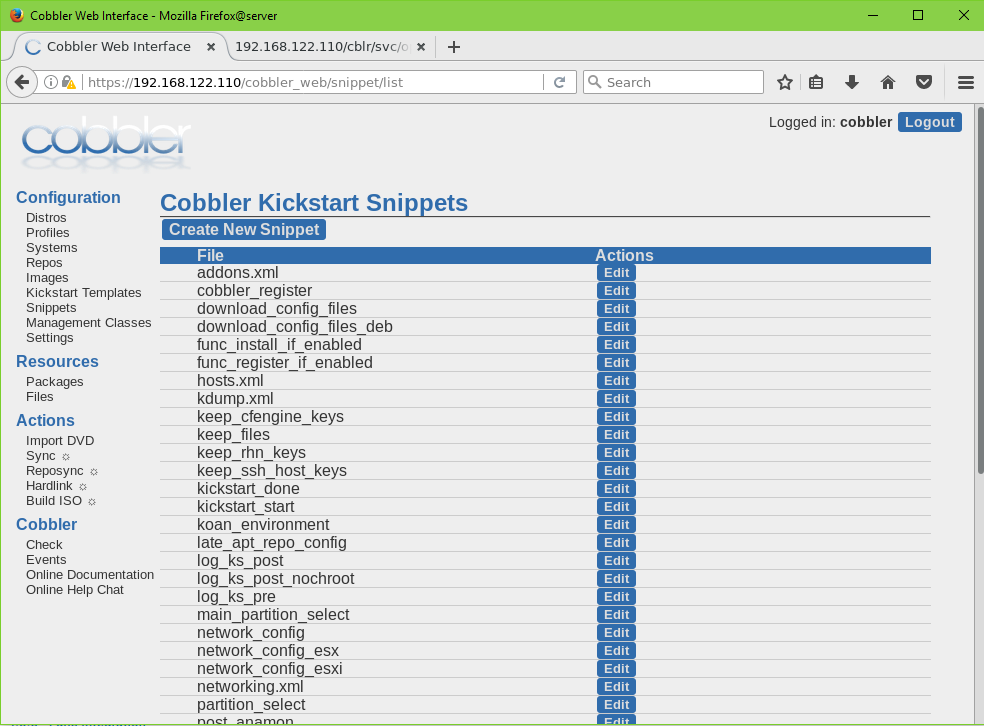
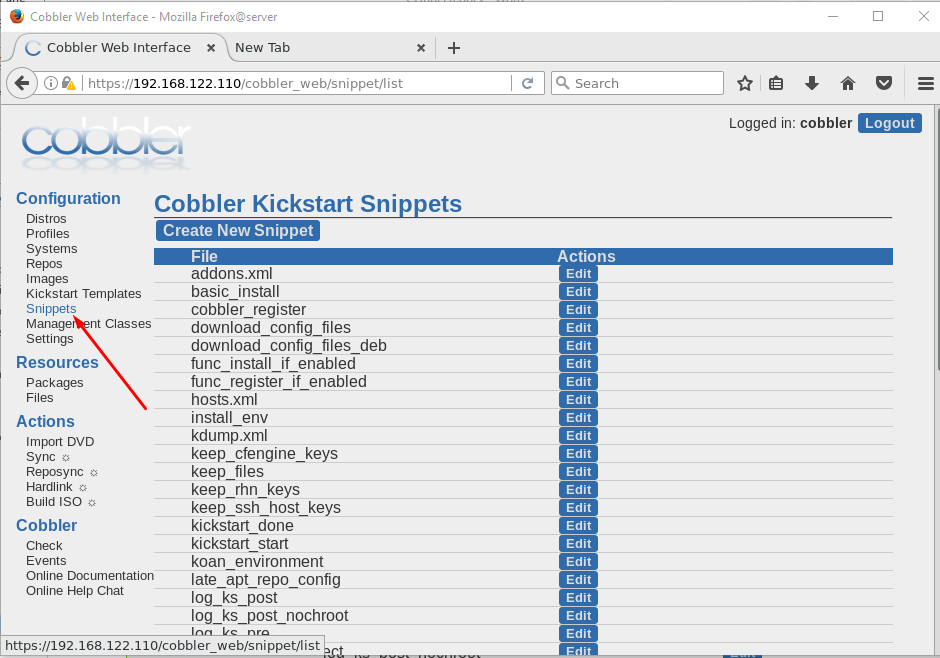
update báo cáo tìm hiểu snippet trong cobbler

Changed region(s): [[0.0, 0.0, 1.0, 1.0], [0.1234, 0.5775, 0.1543, 0.6079]]

diff --git a/docs/3.Cobbler-Su_dung_coban.md b/docs/3.Cobbler-Su_dung_coban.md
@@ -16,6 +16,12 @@
 
 - [1.6.	Snippets](#1.6)
 
+	- [1.6.1. Giới thiệu Snippet](#1.6.1)
+
+	- [1.6.2. Lợi ích của Snippet](#1.6.2)
+
+	- [1.6.3. Sử dụng Snippet](#1.6.3)
+
 [2.	Cobbler import](#2)
 
 - [2.1.	Import sử dụng dòng lệnh](#2.1)
@@ -238,7 +244,10 @@
 <a name = '1.6'></a>
 ## 1.6.	Snippets
 
-- Snippet là một cách để tái sử dụng các dòng code chung giữa các file kickstart. Nghĩa là: việc cấu hình một số thông tin sẽ dùng chung trong file kickstart có thể được thay thế bằng các file snippet. Hiểu đơn giản như này: khi bạn muốn setup hệ thống (client) của bạn với thông tin cấu hình về network (dhcp hoặc static) thì trong mỗi file kickstart bạn phải có thông tin cấu hình cho network, giả sử như sau:
+<a name = '1.6.1'></a>
+### 1.6.1. Giới thiệu Snippets
+
+- **Snippet** là một cách để tái sử dụng các dòng code chung giữa các file kickstart. Nghĩa là: việc cấu hình một số thông tin sẽ dùng chung trong file kickstart có thể được thay thế bằng các file snippet. Hiểu đơn giản như này: khi bạn muốn setup hệ thống (client) của bạn với thông tin cấu hình về network (dhcp hoặc static) thì trong mỗi file kickstart bạn phải có thông tin cấu hình cho network, giả sử như sau:
 
 	```
 	# Network information
@@ -248,10 +257,79 @@
 	```
 - Thì thay ví thế, khi sử dụng snippet, trong file kickstart khi gọi tới tên file snippet mà ta viết ra (giả sử là file `snippet_network_cfg` ) thì khi boot, client sẽ tự động cấu network giống như được nêu ra trong file `snippet_network_cfg` khi được khai báo trong file kickstart như sau: 
 
-	`SNIPPET: snippet_network_cfg`
+	`$SNIPPET('snippet_network_cfg')`
 
+- Như vậy, khi hệ thống cài đặt theo các cấu hình trong file kickstart mà xử lý khi thấy `$SNIPPET` sẽ tự động tìm file snippet tên: `snippet_network_config` trong thư mục chưa file snippet: `/var/lib/cobbler/snippets/` để cấu hình như file đó. 
 
-- Phần này tìm hiểu thêm tại: http://cobbler.github.io/manuals/2.8.0/3/6_-_Snippets.html (phần này khá là hay vì trong các file snippet có sẵn đã có một file cấu hình network tự phát hiện ra tên card mạng, nhưng do mình hiểu biết chưa kĩ nên chưa nắm rõ được phần này và sử dụng nó nên không trình bày nhiều).
+- Các file snippet được thực hiện bởi chức năng Cheetah. Mặc dù cú pháp cũ sử dụng snippet (`"SNIPPET::snippet_name_here"`) vẫn làm việc nhưng tốt hơn nên sử dụng cú pháp mới như sau: 
+
+	`$SNIPPET('snippet_name_here')`
+
+- Cú pháp cũ sẽ vẫn làm việc tốt nếu bạn thích sử dụng nó, nhưng một số chức năng nhỏ sẽ không được đầy đủ khi so sánh với cú pháp mới.
+
+<a name = '1.6.2'></a>
+### 1.6.2. Lợi ích của Snippet:
+
+- Snippet được sử dụng giữa nhiều template kickstart khác nhau. Có thể nói snippet là template của template kickstart.
+
+- Các file snippet có thể được để trong các thư mục con trong thư mục `/var/lib/cobbler/snippets/` để có thể quản lý tốt hơn. Ví dụ: 
+
+	`/var/lib/cobbler/snippets/$subdirectory/$snippet_name`
+
+- Khi đó trong file kickstart sẽ cấu hình sử dụng snippet như sau:
+
+	`$SNIPPET('$subdirectory/$snippet_name')`
+
+- Ví dụ file snippet cấu hình network cho distro ubuntu ta đặt trong thư mục con ubuntu. Khi đó, trong file kickstart cấu hình:
+
+	`$SNIPPET('ubuntu/config_network')`
+
+<a name = '1.6.3'></a>
+### 1.6.3. Sử dụng snippet
+
+- Giả sử trong các file kickstart mình hay cấu hình cho Ubuntu thường có các cấu hình chung cho việc chọn ngôn ngữ, cấu hình timezone, username và password được sử dụng trong tất cả các template kickstart. Sau khi tìm hiểu về snippet, mình có thể gom chung các cấu hình đó và ghi vào một file snippet tên `basic_install` có nội dung như sau:
+
+	```
+	# set language to use during installation
+	lang en_US
+	langsupport en_US
+
+	# set keyboard layout for the system
+	keyboard us
+
+	# reboot the system after installation
+	reboot
+	# config repo source.list
+	url --url http://192.168.122.110/cblr/links/US1604-x86_64/
+
+	# Sets up the authentication options for the system.
+	auth --useshadow --enablemd5
+
+	bootloader --location=mbr
+
+	zerombr yes
+
+	clearpart --all --initlabel
+
+	# setup timezone
+	timezone Asia/Ho_Chi_Minh
+
+	# Set the system's root password
+	rootpw rootpassword123
+
+	# Creates a new user on the system
+	user ttp --fullname=ttp --password=ttppassword123
+	```
+
+- File này được đặt trong thư mục gốc của file snippet: `/var/lib/cobbler/snippets/`
+
+- Bây giờ, giả sử khi tạo ra một file kickstart `UStest.ks` cấu hình cho Ubuntu thì mình sử dụng snippet tham chiếu tới file `basic_install` như sau:
+
+	![img](../images/5.21.png)
+
+- Sau khi test boot thử Ubuntu thì kết quả là các cấu hình trong file `basic_install` đã được hoàn thành.  
+
+- Phần này tìm hiểu thêm tại: http://cobbler.github.io/manuals/2.8.0/3/6_-_Snippets.html 
 
 - Snippet có thể quản lý thông qua giao diện web tại tab Snippets như sau:
 

diff --git a/docs/2.Cobbler-cai_dat.md b/docs/2.Cobbler-cai_dat.md
@@ -283,7 +283,7 @@ Như vậy là cobbler đã được cài đặt thành công, và tiếp theo l
 <a name = '3'></a>
 # 3. Cài đặt Cobbler sử dụng scripts
 
-- Phần này hướng dẫn sử dụng scripts để cài đặt Cobbler và cấu hình một số thành phần trong Cobbler một cách nhanh chóng. Script bao gồm các bước cài đặt và cấu hình từ [bước 1](./5.Cobbler-cai_dat.md#2.1) tới [bước 5](./5.Cobbler-cai_dat.md#2.5) như hướng dẫn trên. 
+- Phần này hướng dẫn sử dụng scripts để cài đặt Cobbler và cấu hình một số thành phần trong Cobbler một cách nhanh chóng. Script bao gồm các bước cài đặt và cấu hình từ [bước 1](./2.Cobbler-cai_dat.md#2.1) tới [bước 5](./2.Cobbler-cai_dat.md#2.5) như hướng dẫn trên. 
 
 - Các bước thực hiện: 
 

diff --git a/docs/readme.md b/docs/readme.md
@@ -10,3 +10,5 @@
 
 - [Một số ghi chép về các thao tác cơ bản quản lý và sử dụng Cobbler](./3.Cobbler-Su_dung_coban.md)
 
+	- [Tím hiểu và sử dụng snippet](./3.Cobbler-Su_dung_coban.md#1.6)
+
